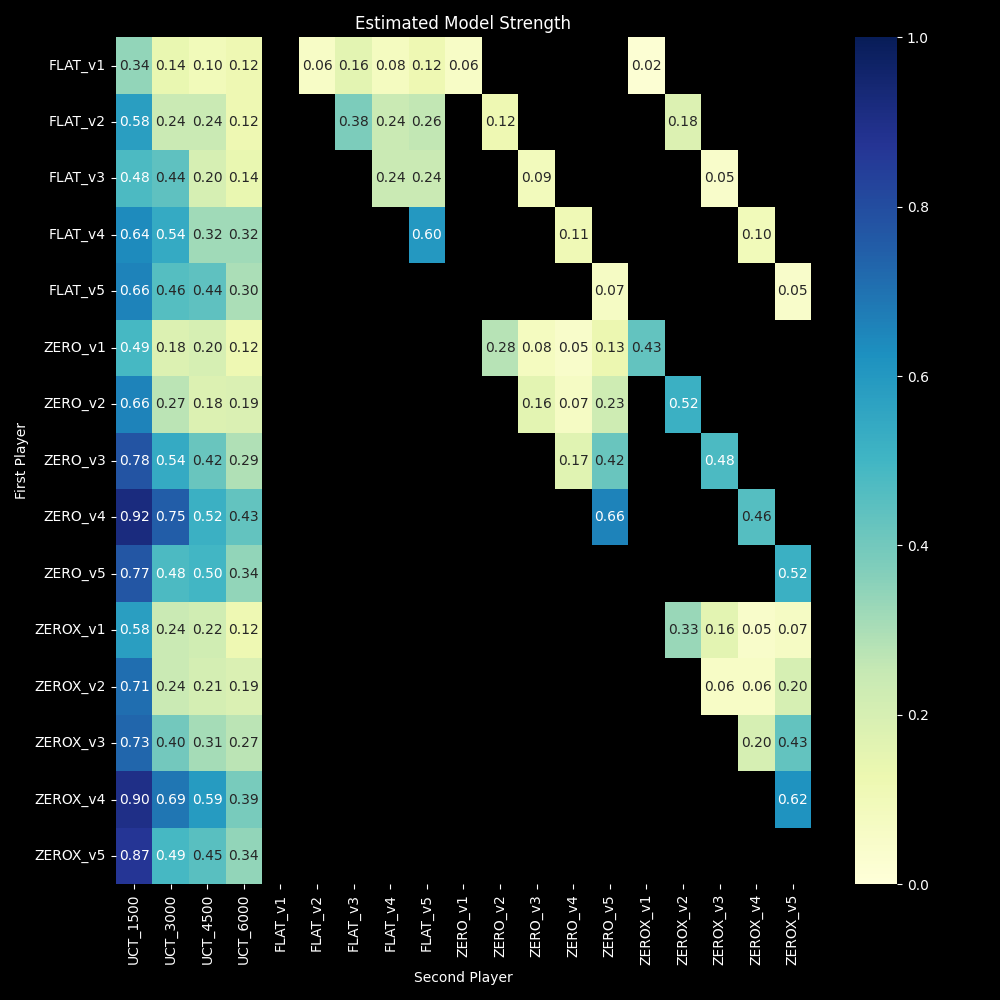
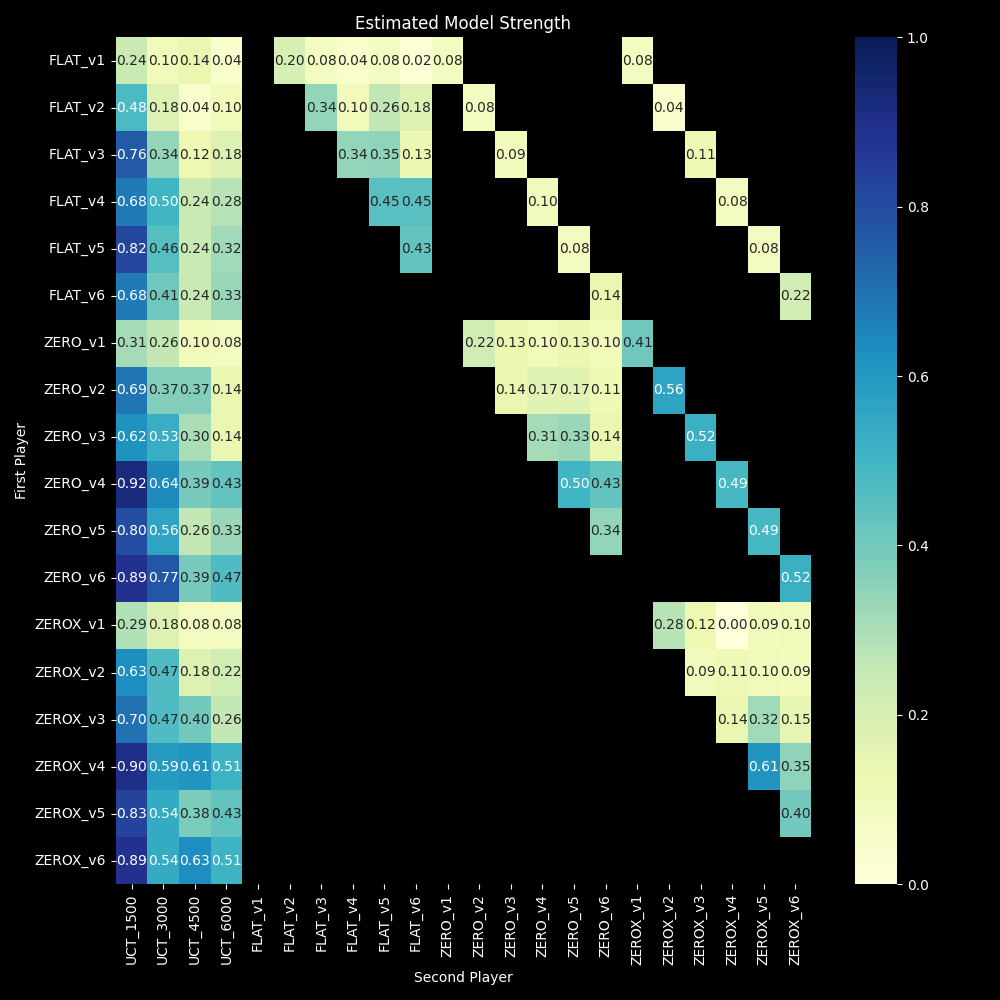
feat: plots v6

Changed region(s): [[0.031, 0.031, 0.806, 0.961], [0.651, 0.589, 0.837, 0.837], [0.62, 0.031, 0.837, 0.341]]

diff --git a/src/stats.py b/src/stats.py
@@ -338,6 +338,17 @@ def plot_competition(game_kwargs_str, n_games=50):
         elif comp.endswith("counts.csv"):
             counts += [os.path.join(COMP_DIR, comp)]
 
+    lengths = [
+        "8_8_5/competition/FLAT_v4_UCT_6000_lengths.csv",
+        "8_8_5/competition/ZEROX_v3_UCT_4500_lengths.csv",
+        "8_8_5/competition/ZEROX_v3_UCT_6000_lengths.csv",
+    ]
+    counts = [
+        "8_8_5/competition/FLAT_v4_UCT_6000_counts.csv",
+        "8_8_5/competition/ZEROX_v3_UCT_4500_counts.csv",
+        "8_8_5/competition/ZEROX_v3_UCT_6000_counts.csv",
+    ]   
+
     lengths, counts = sorted(lengths), sorted(counts)
     for length_path, count_path in zip(lengths, counts):
         plot_path = length_path.replace("_lengths.csv", ".png")
@@ -527,12 +538,12 @@ def q_plot(all_scores, game_kwargs_str):
     plot_q3(q3, game_kwargs_str)
     
 if __name__ == "__main__":
-    fairness_small()
+    # fairness_small()
     
-    for game_kwargs in [S_GAME, M_GAME, L_GAME]:
+    for game_kwargs in [M_GAME]:
         game_kwargs_str = "_".join(map(str, game_kwargs))
 
-        plot_training(game_kwargs_str)
+        # plot_training(game_kwargs_str)
         plot_competition(game_kwargs_str)
         plot_timeseries(game_kwargs_str, anomaly_detection=False)
         
